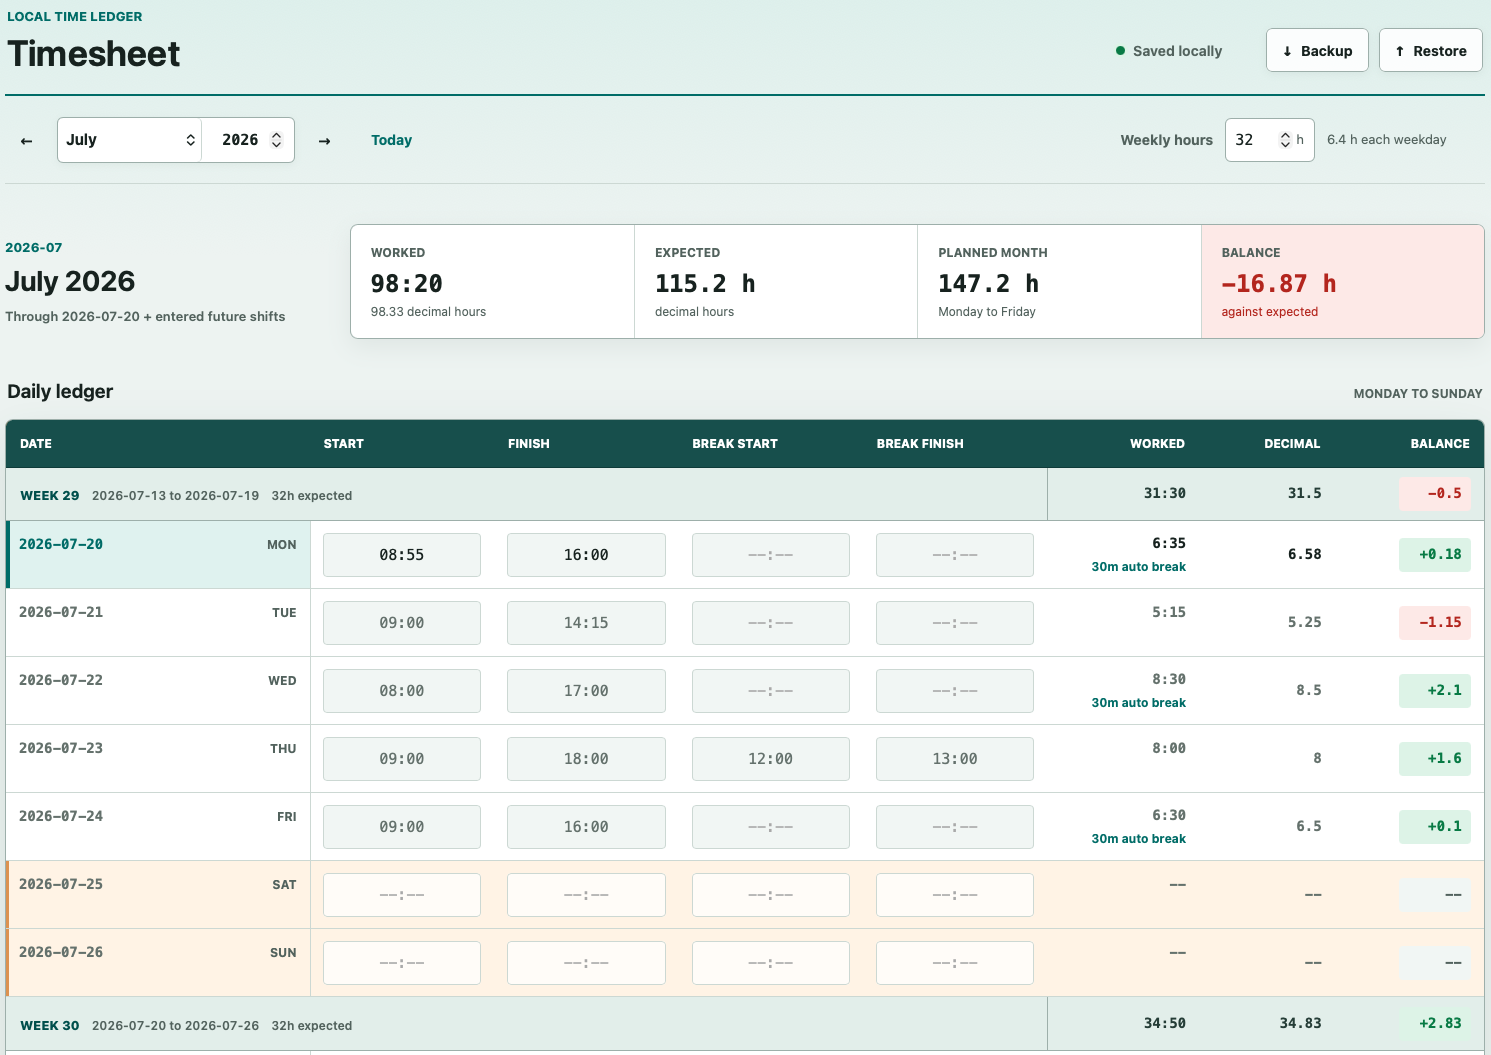
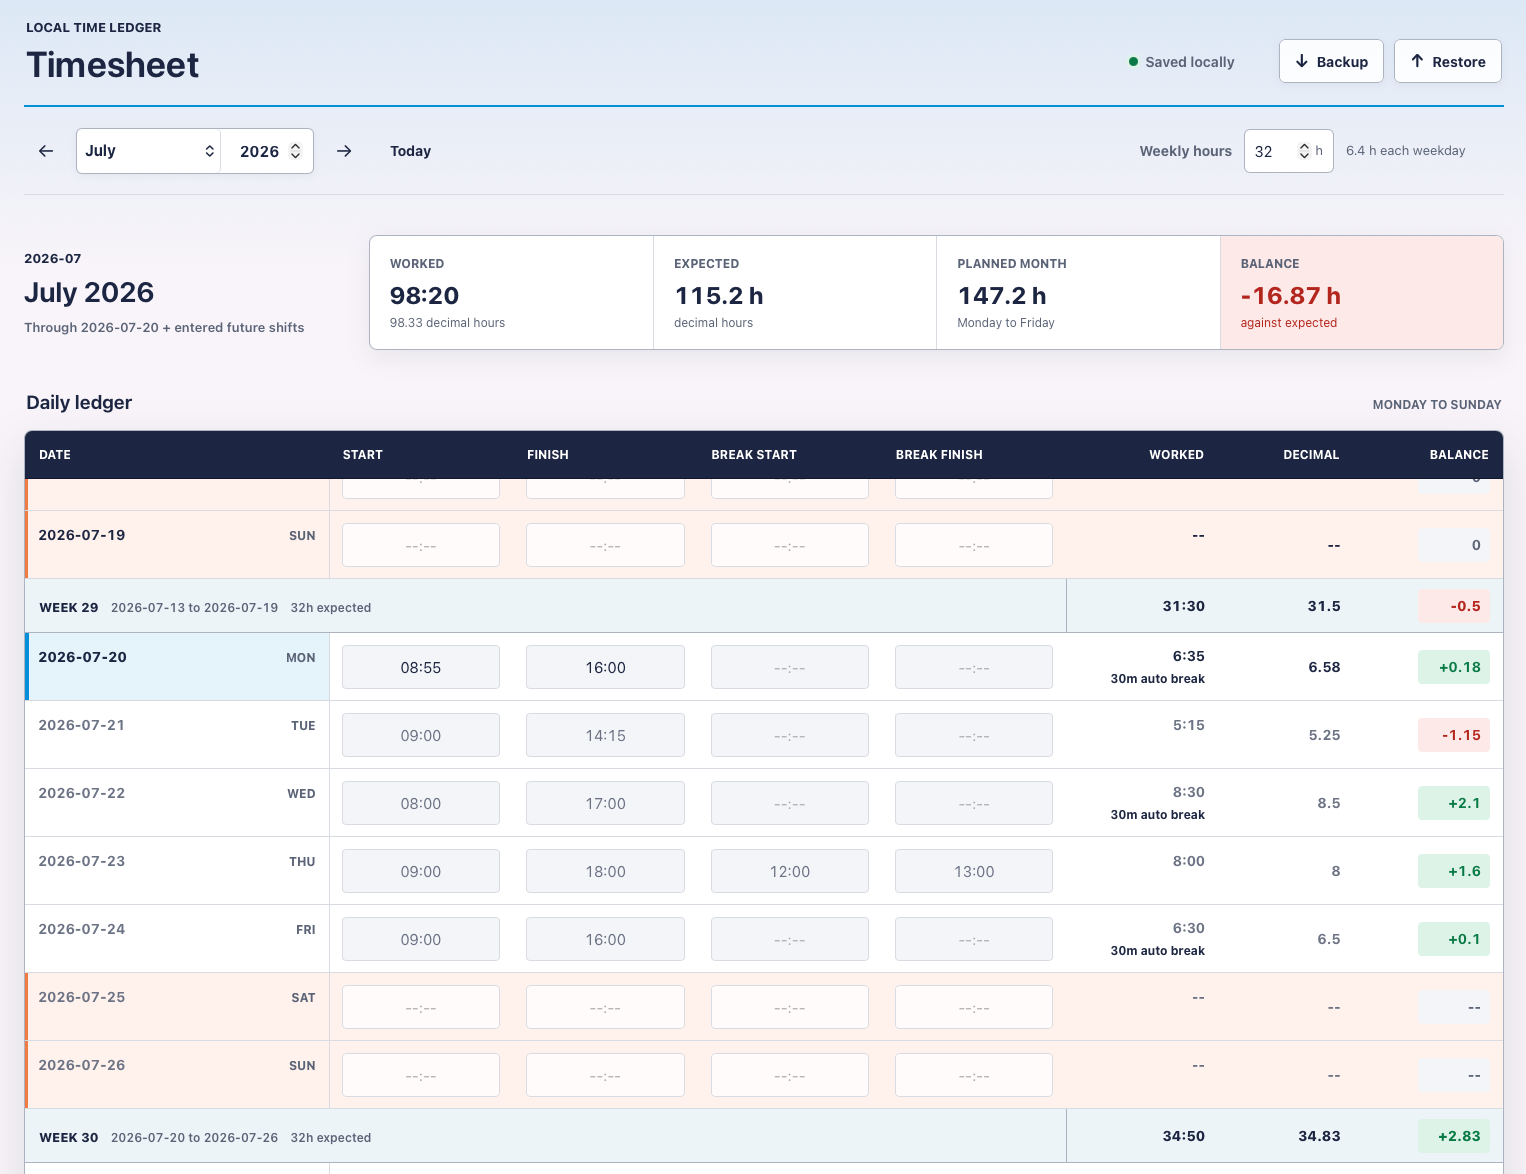
color palette changed

diff --git a/styles.css b/styles.css
@@ -1,27 +1,27 @@
 :root {
   color-scheme: light;
-  --page: #edf3f1;
+  --page: #f8f4f9;
   --surface: #ffffff;
-  --surface-soft: #f1f6f4;
-  --ink: #17221f;
-  --muted: #52625d;
-  --line: #ccd8d3;
-  --line-strong: #9dafaa;
-  --accent: #006c67;
-  --accent-strong: #004f4c;
-  --accent-soft: #dff2ef;
-  --weekend: #fff3e5;
-  --weekend-line: #dc9250;
+  --surface-soft: #f4f5f8;
+  --ink: #1c2541;
+  --muted: #5b6377;
+  --line: #d8dbe2;
+  --line-strong: #adb3c0;
+  --accent: #058ed9;
+  --accent-strong: #1c2541;
+  --accent-soft: #e5f3fb;
+  --weekend: #fff2ec;
+  --weekend-line: #ef7b45;
   --positive: #087a45;
   --positive-soft: #ddf3e7;
   --negative: #b3261e;
   --negative-soft: #fde9e7;
-  --warning: #8a5600;
-  --warning-soft: #fff0c7;
-  --shadow: 0 18px 45px rgba(23, 50, 43, 0.12);
+  --warning: #9a4b26;
+  --warning-soft: #ffede4;
+  --shadow: 0 18px 45px rgba(28, 37, 65, 0.13);
   --radius: 8px;
-  --font-sans: system-ui, -apple-system, BlinkMacSystemFont, "Segoe UI", sans-serif;
-  --font-mono: "SFMono-Regular", Consolas, "Liberation Mono", monospace;
+  --font-sans: -apple-system, BlinkMacSystemFont, "SF Pro Text", "Helvetica Neue", Helvetica, Arial, sans-serif;
+  --font-display: "SF Pro Display", -apple-system, BlinkMacSystemFont, "Helvetica Neue", Helvetica, Arial, sans-serif;
   font-family: var(--font-sans);
   font-size: 16px;
   line-height: 1.5;
@@ -44,9 +44,10 @@ body {
   margin: 0;
   color: var(--ink);
   background:
-    linear-gradient(180deg, #dcefeb 0, rgba(237, 243, 241, 0) 280px) 0 0 / 100% 360px no-repeat,
+    linear-gradient(180deg, rgba(5, 142, 217, 0.12) 0, rgba(248, 244, 249, 0) 280px) 0 0 / 100% 360px no-repeat,
     var(--page);
   letter-spacing: 0;
+  -webkit-font-smoothing: antialiased;
 }
 
 button,
@@ -66,7 +67,7 @@ button:focus-visible,
 input:focus-visible,
 select:focus-visible,
 a:focus-visible {
-  outline: 3px solid rgba(0, 108, 103, 0.34);
+  outline: 3px solid rgba(5, 142, 217, 0.34);
   outline-offset: 3px;
 }
 
@@ -89,7 +90,7 @@ a:focus-visible {
   left: 10px;
   padding: 9px 12px;
   color: #ffffff;
-  background: var(--accent);
+  background: var(--accent-strong);
   border-radius: 4px;
   transform: translateY(-150%);
 }
@@ -117,6 +118,7 @@ a:focus-visible {
 .overview-heading h2,
 .ledger-heading h2 {
   margin: 0;
+  font-family: var(--font-display);
   font-weight: 650;
   letter-spacing: 0;
 }
@@ -128,7 +130,7 @@ a:focus-visible {
 
 .eyebrow {
   margin: 0 0 7px;
-  color: var(--accent);
+  color: var(--accent-strong);
   font-size: 13px;
   font-weight: 750;
   letter-spacing: 0;
@@ -167,7 +169,7 @@ a:focus-visible {
 }
 
 .button-icon {
-  font-family: var(--font-mono);
+  font-family: var(--font-sans);
   font-size: 18px;
   line-height: 1;
 }
@@ -175,7 +177,7 @@ a:focus-visible {
 .button-secondary {
   border-color: var(--line-strong);
   background: rgba(255, 255, 255, 0.88);
-  box-shadow: 0 2px 8px rgba(23, 50, 43, 0.06);
+  box-shadow: 0 2px 8px rgba(28, 37, 65, 0.06);
 }
 
 .button-secondary:hover,
@@ -184,11 +186,11 @@ a:focus-visible {
   border-color: var(--accent);
   color: var(--accent-strong);
   background: var(--surface);
-  box-shadow: 0 3px 10px rgba(23, 50, 43, 0.1);
+  box-shadow: 0 3px 10px rgba(28, 37, 65, 0.1);
 }
 
 .button-quiet {
-  color: var(--accent);
+  color: var(--accent-strong);
 }
 
 .button:active,
@@ -200,7 +202,7 @@ a:focus-visible {
 .icon-button {
   width: 44px;
   padding: 0;
-  font-family: var(--font-mono);
+  font-family: var(--font-sans);
   font-size: 20px;
 }
 
@@ -221,7 +223,7 @@ a:focus-visible {
   flex: 0 0 auto;
   border-radius: 50%;
   background: var(--line-strong);
-  box-shadow: 0 0 0 3px rgba(82, 98, 93, 0.1);
+  box-shadow: 0 0 0 3px rgba(91, 99, 119, 0.12);
 }
 
 .save-status[data-tone="success"] .status-dot {
@@ -266,7 +268,7 @@ a:focus-visible {
   border: 1px solid var(--line-strong);
   border-radius: 6px;
   background: var(--surface);
-  box-shadow: 0 2px 8px rgba(23, 50, 43, 0.05);
+  box-shadow: 0 2px 8px rgba(28, 37, 65, 0.05);
 }
 
 .period-picker select,
@@ -288,7 +290,7 @@ a:focus-visible {
   width: 92px;
   padding: 0 10px;
   text-align: center;
-  font-family: var(--font-mono);
+  font-family: var(--font-sans);
   font-variant-numeric: tabular-nums;
 }
 
@@ -316,7 +318,7 @@ a:focus-visible {
 
 .number-field:focus-within {
   border-color: var(--accent);
-  box-shadow: 0 0 0 3px rgba(0, 108, 103, 0.15);
+  box-shadow: 0 0 0 3px rgba(5, 142, 217, 0.16);
 }
 
 .number-field input {
@@ -326,7 +328,7 @@ a:focus-visible {
   border: 0;
   outline: 0;
   background: transparent;
-  font-family: var(--font-mono);
+  font-family: var(--font-sans);
   font-size: 15px;
   font-variant-numeric: tabular-nums;
 }
@@ -390,7 +392,7 @@ a:focus-visible {
   border: 1px solid var(--line-strong);
   border-radius: var(--radius);
   background: var(--surface);
-  box-shadow: 0 8px 24px rgba(23, 50, 43, 0.07);
+  box-shadow: 0 8px 24px rgba(28, 37, 65, 0.08);
 }
 
 .summary-metric {
@@ -414,7 +416,7 @@ a:focus-visible {
 .summary-metric dd {
   overflow: hidden;
   margin: 0;
-  font-family: var(--font-mono);
+  font-family: var(--font-sans);
   font-size: 24px;
   font-weight: 750;
   font-variant-numeric: tabular-nums;
@@ -516,8 +518,8 @@ thead th {
   height: 48px;
   padding: 0 14px;
   color: #ffffff;
-  background: #174f4c;
-  border-bottom: 1px solid #0e3b39;
+  background: #1c2541;
+  border-bottom: 1px solid #11182d;
   font-size: 12px;
   font-weight: 750;
   text-align: left;
@@ -563,7 +565,7 @@ tbody tr:last-child td {
 }
 
 .date-line time {
-  font-family: var(--font-mono);
+  font-family: var(--font-sans);
   font-size: 14px;
   font-weight: 700;
 }
@@ -599,8 +601,8 @@ tbody tr:last-child td {
 
 .day-row.is-adjacent th,
 .day-row.is-adjacent td {
-  color: #66736e;
-  background-image: linear-gradient(rgba(231, 237, 234, 0.62), rgba(231, 237, 234, 0.62));
+  color: #697084;
+  background-image: linear-gradient(rgba(216, 219, 226, 0.62), rgba(216, 219, 226, 0.62));
 }
 
 .day-row.is-adjacent.is-weekend th,
@@ -614,12 +616,12 @@ tbody tr:last-child td {
 }
 
 .day-row.is-today .date-line time {
-  color: var(--accent);
+  color: var(--accent-strong);
   font-weight: 800;
 }
 
 .day-row.is-future:not(.is-today) {
-  color: #64716c;
+  color: #6b7284;
 }
 
 .day-row.has-error th,
@@ -640,7 +642,7 @@ tbody tr:last-child td {
   border-radius: 4px;
   outline: 0;
   background: var(--surface-soft);
-  font-family: var(--font-mono);
+  font-family: var(--font-sans);
   font-size: 15px;
   font-variant-numeric: tabular-nums;
   text-align: center;
@@ -657,7 +659,7 @@ tbody tr:last-child td {
 .time-input:focus {
   border-color: var(--accent);
   background: var(--surface);
-  box-shadow: 0 0 0 3px rgba(0, 108, 103, 0.15);
+  box-shadow: 0 0 0 3px rgba(5, 142, 217, 0.16);
 }
 
 .time-input[aria-invalid="true"] {
@@ -674,7 +676,7 @@ tbody tr:last-child td {
 .decimal-value,
 .balance-value {
   display: block;
-  font-family: var(--font-mono);
+  font-family: var(--font-sans);
   font-size: 14px;
   font-weight: 700;
   font-variant-numeric: tabular-nums;
@@ -685,7 +687,7 @@ tbody tr:last-child td {
   display: block;
   min-height: 16px;
   margin-top: 4px;
-  color: var(--accent);
+  color: var(--accent-strong);
   font-size: 12px;
   font-weight: 700;
   white-space: nowrap;
@@ -721,8 +723,8 @@ tbody tr:last-child td {
   height: 54px;
   padding-top: 8px;
   padding-bottom: 8px;
-  color: #253d37;
-  background: #e2eeea;
+  color: var(--ink);
+  background: #edf4f8;
   border-bottom: 1px solid var(--line-strong);
 }
 